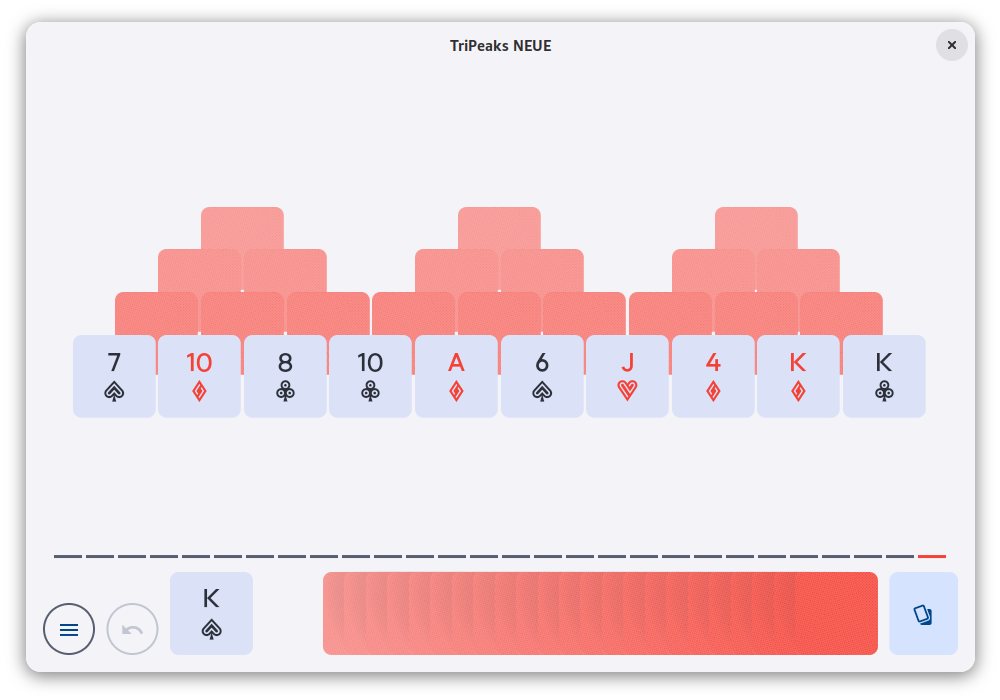
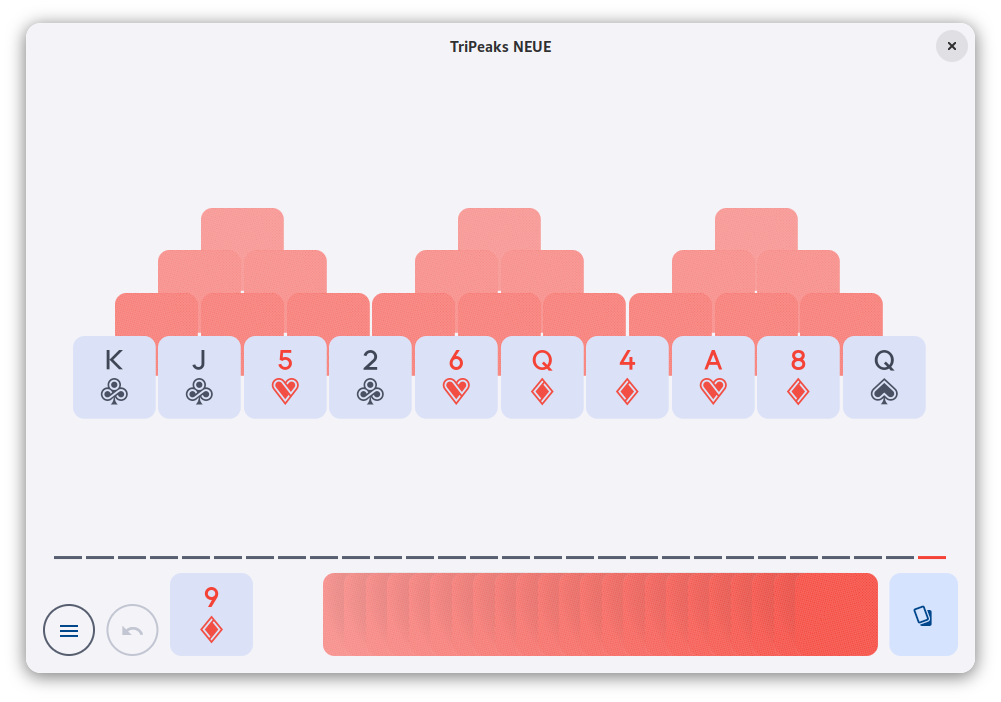
Flatpak screenshots

diff --git a/release_checklist.md b/release_checklist.md
@@ -9,10 +9,11 @@
 - [ ] F-Droid screenshots
 - [x] F-Droid icon
 - [ ] Flatpak changelog
-- [ ] Flatpak screenshots
+- [x] Flatpak screenshots
 - [x] Flatpak icon
 - [ ] Flatpak metainfo lint
 - [ ] Snapcraft release
+- [ ] Snapcraft screenshots & metadata
 - [x] Update the ```flutter-version``` file
 - [x] Google Play icon
 - [ ] Readme images
